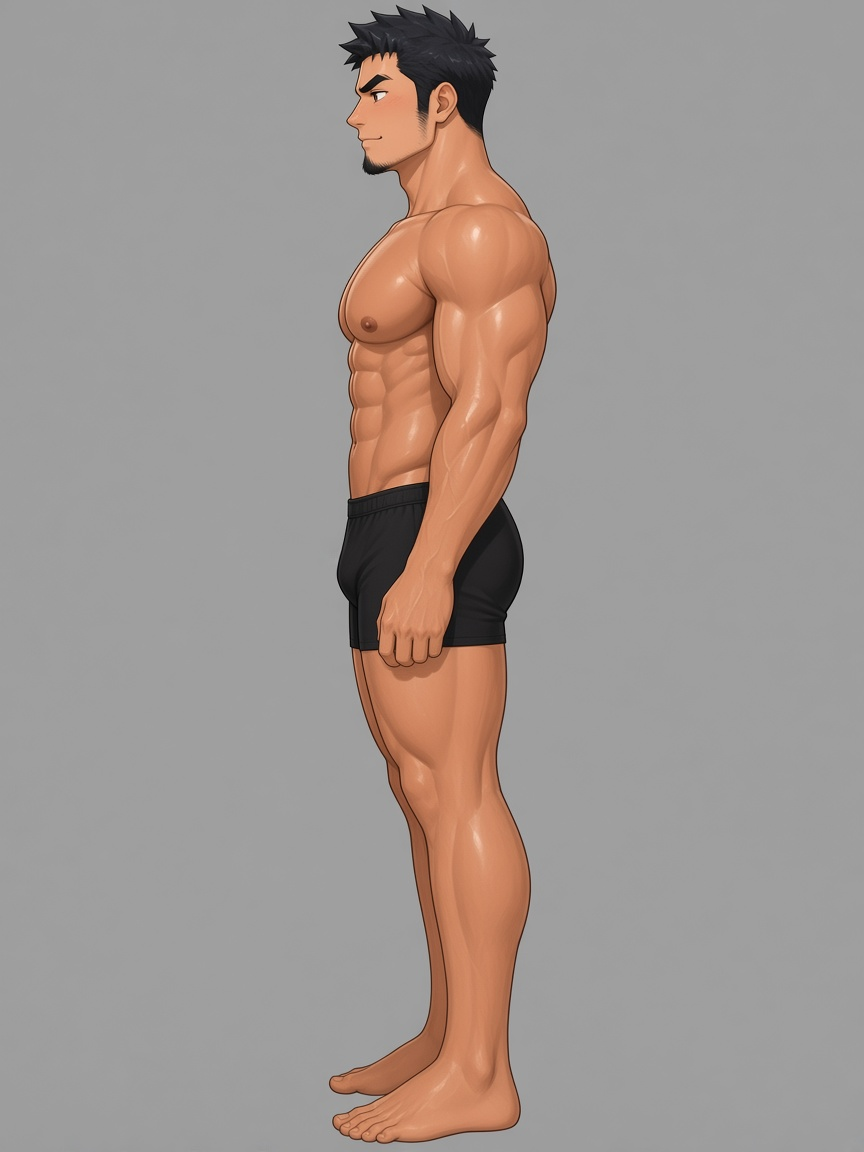
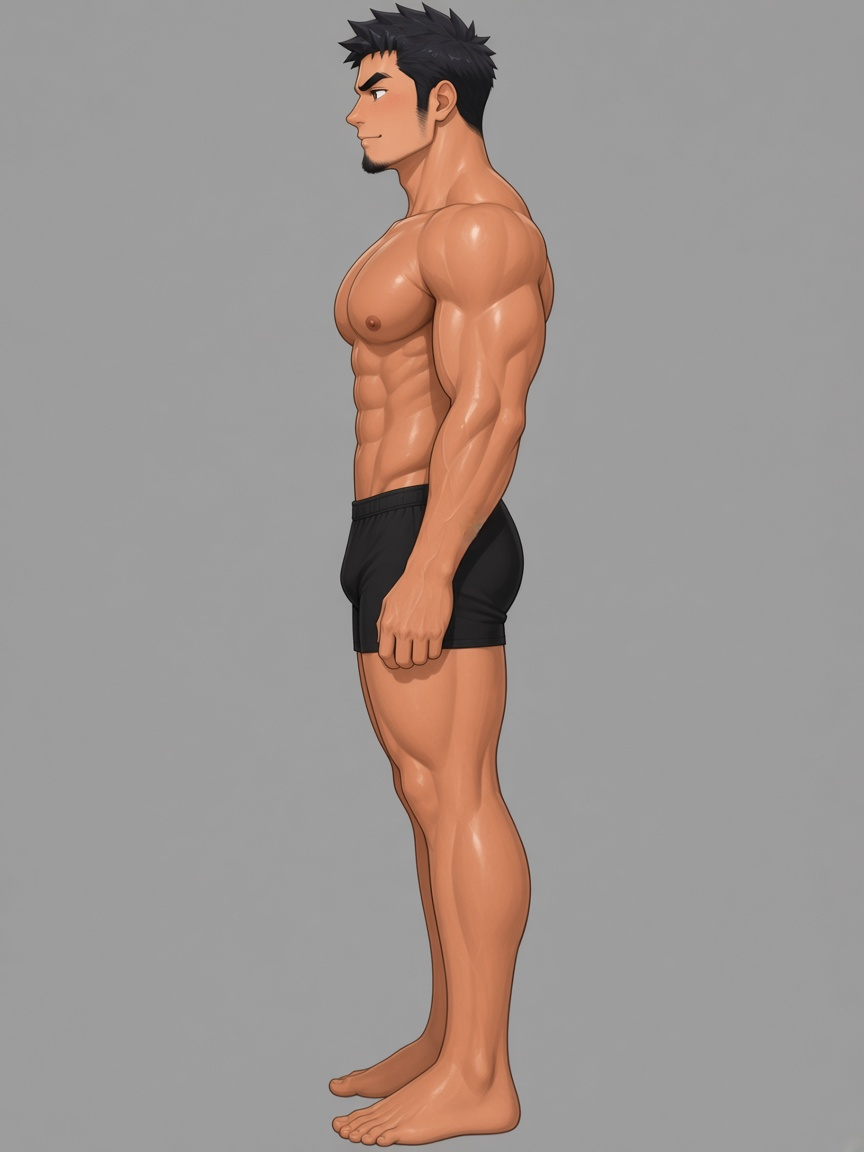
fix: 侧面胸取厚与扁的中间
上胸再向前鼓，下胸留在上一版圆球和过扁之间。

diff --git a/漫画分镜/多角度设定/设定说明.md b/漫画分镜/多角度设定/设定说明.md
@@ -5,7 +5,7 @@
 ## 识别点
 
 - 脸：短碎发。眼往侧看，深棕色。下颌收尖，下巴有一小撮山羊胡，颊侧淡胡茬。
-- 体：高，腿长。上胸饱满，胸位偏高，下胸收紧。侧面是一整块胸肌的厚度，轮廓收回腹部，不鼓成单独的圆球。肩宽，腹肌清楚。
+- 体：高，腿长。上胸向前鼓，下胸取厚与扁的中间，轮廓收回腹部。肩宽，腹肌清楚。
 - 肤色：暖小麦色。
 
 ## 图
